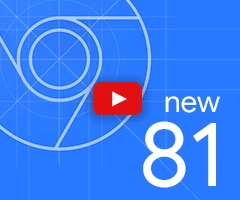
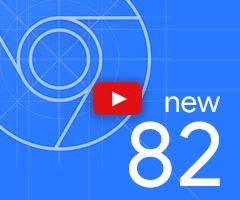
Update the What's New UI for Chrome 82
Screenshot: https://bugs.chromium.org/p/chromium/issues/detail?id=986998#c16

Bug: 986998
Auto-Submit: Kayce Basques <kayce@google.com>
Commit-Queue: Tim van der Lippe <tvanderlippe@chromium.org>

Changed region(s): [[0.525, 0.6, 0.9333, 0.96]]

diff --git a/front_end/help/ReleaseNoteText.js b/front_end/help/ReleaseNoteText.js
@@ -17,6 +17,49 @@ const commandMenuShortcut = Host.Platform.isMac() ? 'Command+Shift+P' : 'Control
 /** @type {!Array<!ReleaseNote>} */
 export const releaseNoteText = [
   {
+    version: 24,
+    header: 'Highlights from the Chrome 82 update',
+    highlights: [
+      {
+        title: 'Emulate vision deficiencies from the Rendering tab',
+        subtitle: 'Get a visual approximation of how people with vision deficiencies might experience your site.',
+        link: 'https://developers.google.com/web/updates/2020/03/devtools#vision-deficiences',
+      },
+      {
+        title: 'Cross-Origin Opener Policy (COOP) and Cross-Origin Embedder Policy (COEP) debugging',
+        subtitle:
+            'Use the Status column and Response Headers section in the Network panel to debug COOP and COEP issues.',
+        link: 'https://developers.google.com/web/updates/2020/03/devtools#COOP-COEP',
+      },
+      {
+        title: 'Dock to left from the Command Menu',
+        subtitle: 'Run the "Dock to left" command to quickly move DevTools to the left of your viewport.',
+        link: 'https://developers.google.com/web/updates/2020/03/devtools#dock-to-left',
+      },
+      {
+        title: 'The Audits panel is now the Lighthouse panel',
+        subtitle: 'Same features. New name.',
+        link: 'https://developers.google.com/web/updates/2020/03/devtools#lighthouse',
+      },
+      {
+        title: 'Delete all Local Overrides in a folder',
+        subtitle: 'Right-click a folder from the Overrides tab and select "Delete all overrides".',
+        link: 'https://developers.google.com/web/updates/2020/03/devtools#overrides',
+      },
+      {
+        title: 'Updated Long Tasks UI',
+        subtitle: 'In the Performance panel Long Tasks now have a striped red background.',
+        link: 'https://developers.google.com/web/updates/2020/03/devtools#long-tasks',
+      },
+      {
+        title: 'Maskable icon support in the Manifest pane',
+        subtitle: 'Enable the "Show only the minimum safe area for maskable icons" checkbox.',
+        link: 'https://developers.google.com/web/updates/2020/03/devtools#maskable-icons',
+      },
+    ],
+    link: 'https://developers.google.com/web/updates/2020/03/devtools',
+  },
+  {
     version: 23,
     header: 'Highlights from the Chrome 81 update',
     highlights: [
